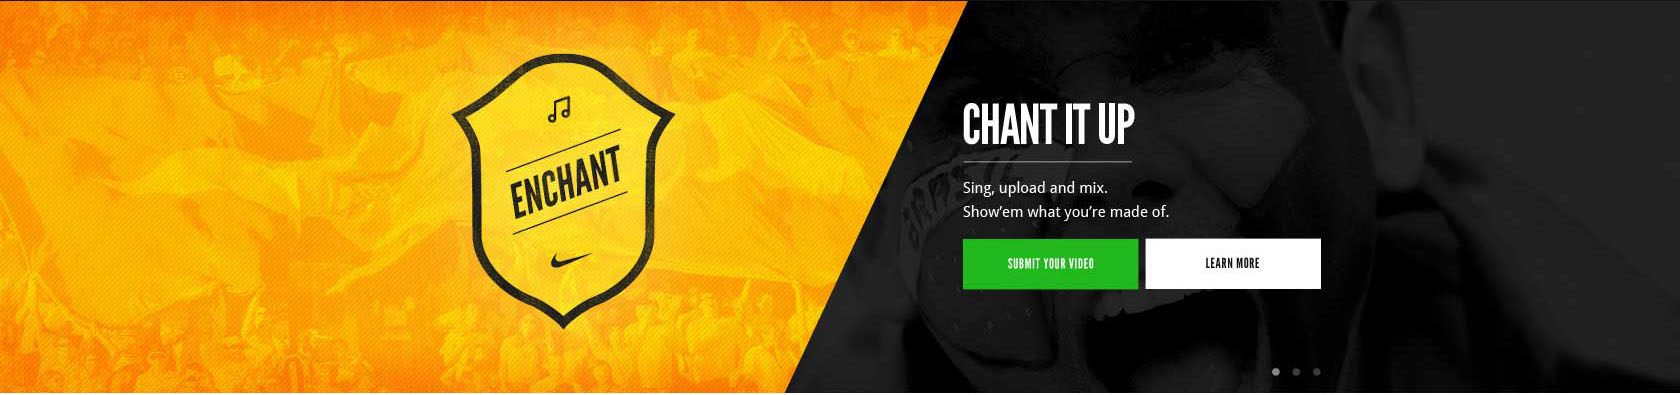
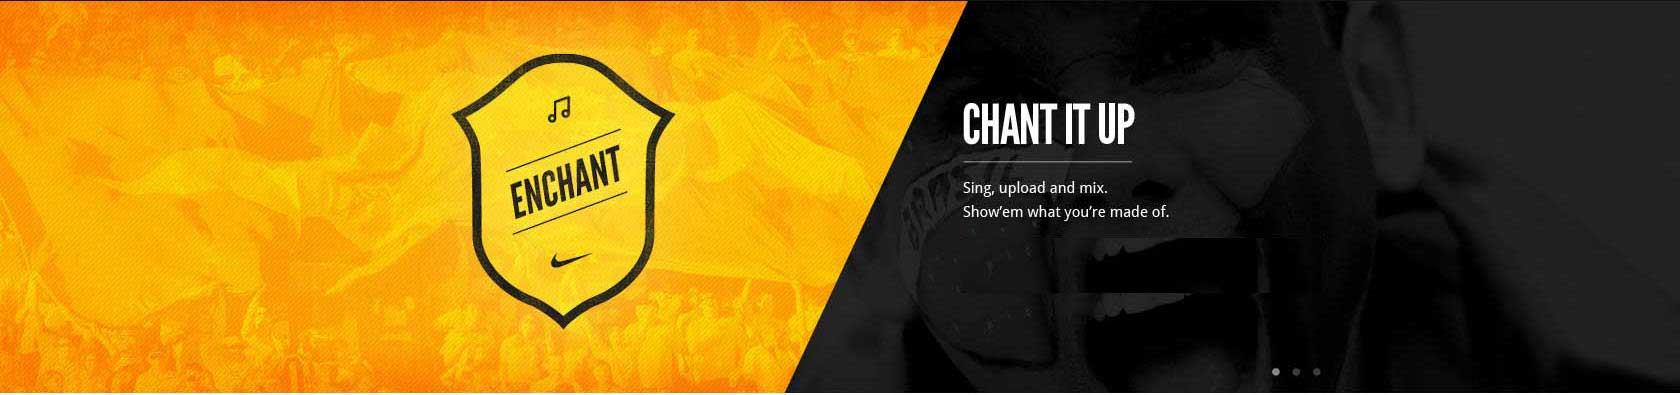
Adding video upload

Changed region(s): [[0.5571, 0.5772, 0.8048, 0.7595], [0.3095, 0.4253, 0.3405, 0.5772], [0.3405, 0.3342, 0.3714, 0.3949]]

diff --git a/app/assets/stylesheets/application.css b/app/assets/stylesheets/application.css
@@ -41,6 +41,7 @@
  header #usa-flag         { margin-top: -7px; }
 
  #banner                  { background-image: url('/assets/header.jpg'); height: 395px; background-position: center 0px; }
+ #banner #ban-links       { margin: 0 auto; padding: 250px 0px 0px 605px; }
 
  div#prearea h3           { margin: 100px 0; }
  div#prearea li           { float: left; border-right: 1px solid #f1f1f1; padding: 0px 10px; }
@@ -51,6 +52,8 @@
  div#gallery ul           { margin: 50px 0px; }
  div#gallery ul li        { background: #fff; padding: 10px; border: 1px solid #dcdcdc;
                             margin: 0px 17px 17px 0px; float: left; color: #484848; font-size: 11px; text-align: left; }
+
+#show                     { padding: 30px 0px; margin: 0 auto; width: 650px; }
 
 footer                    { height: 590px; background-image: url('/assets/footer.jpg'); background-position: center 0px; }
 

diff --git a/app/controllers/welcomes_controller.rb b/app/controllers/welcomes_controller.rb
@@ -1,7 +1,23 @@
 class WelcomesController < ApplicationController
+  before_filter :authenticate_user!, :only => [:new, :create]
+
   def index
     @album = Chute::V2::Albums.all.data[0]
 
     @assets = Chute::V2::Assets.all(@album.id)
+  end
+
+  def new
+  end
+
+  def create
+    album = Chute::V2::Albums.all.data[0]
+    Chute::V2::Assets.upload(album.id, params[:video][:video])
+
+    redirect_to welcomes_path
+  end
+
+  def show
+    @asset = Chute::V2::Assets.find(params[:id])
   end
 end
